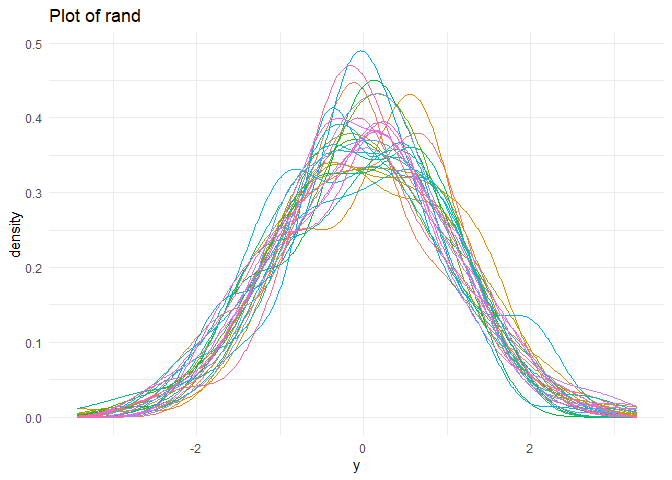
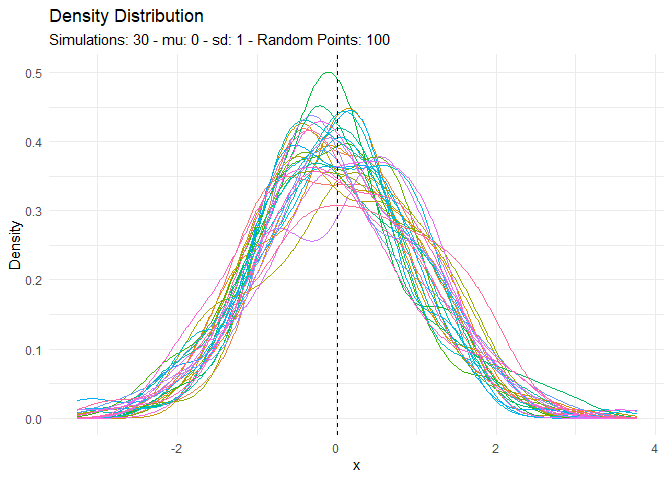
update pkgdown site

diff --git a/docs/reference/tidy_normal.html b/docs/reference/tidy_normal.html
@@ -1,0 +1,150 @@
+<!DOCTYPE html>
+<!-- Generated by pkgdown: do not edit by hand --><html lang="en"><head><meta http-equiv="Content-Type" content="text/html; charset=UTF-8"><meta charset="utf-8"><meta http-equiv="X-UA-Compatible" content="IE=edge"><meta name="viewport" content="width=device-width, initial-scale=1.0"><title>Tidy Randomly Generated Gaussian Tibble — tidy_normal • TidyDensity</title><!-- jquery --><script src="https://cdnjs.cloudflare.com/ajax/libs/jquery/3.4.1/jquery.min.js" integrity="sha256-CSXorXvZcTkaix6Yvo6HppcZGetbYMGWSFlBw8HfCJo=" crossorigin="anonymous"></script><!-- Bootstrap --><link href="https://cdnjs.cloudflare.com/ajax/libs/bootswatch/3.4.0/flatly/bootstrap.min.css" rel="stylesheet" crossorigin="anonymous"><script src="https://cdnjs.cloudflare.com/ajax/libs/twitter-bootstrap/3.4.1/js/bootstrap.min.js" integrity="sha256-nuL8/2cJ5NDSSwnKD8VqreErSWHtnEP9E7AySL+1ev4=" crossorigin="anonymous"></script><!-- bootstrap-toc --><link rel="stylesheet" href="../bootstrap-toc.css"><script src="../bootstrap-toc.js"></script><!-- Font Awesome icons --><link rel="stylesheet" href="https://cdnjs.cloudflare.com/ajax/libs/font-awesome/5.12.1/css/all.min.css" integrity="sha256-mmgLkCYLUQbXn0B1SRqzHar6dCnv9oZFPEC1g1cwlkk=" crossorigin="anonymous"><link rel="stylesheet" href="https://cdnjs.cloudflare.com/ajax/libs/font-awesome/5.12.1/css/v4-shims.min.css" integrity="sha256-wZjR52fzng1pJHwx4aV2AO3yyTOXrcDW7jBpJtTwVxw=" crossorigin="anonymous"><!-- clipboard.js --><script src="https://cdnjs.cloudflare.com/ajax/libs/clipboard.js/2.0.6/clipboard.min.js" integrity="sha256-inc5kl9MA1hkeYUt+EC3BhlIgyp/2jDIyBLS6k3UxPI=" crossorigin="anonymous"></script><!-- headroom.js --><script src="https://cdnjs.cloudflare.com/ajax/libs/headroom/0.11.0/headroom.min.js" integrity="sha256-AsUX4SJE1+yuDu5+mAVzJbuYNPHj/WroHuZ8Ir/CkE0=" crossorigin="anonymous"></script><script src="https://cdnjs.cloudflare.com/ajax/libs/headroom/0.11.0/jQuery.headroom.min.js" integrity="sha256-ZX/yNShbjqsohH1k95liqY9Gd8uOiE1S4vZc+9KQ1K4=" crossorigin="anonymous"></script><!-- pkgdown --><link href="../pkgdown.css" rel="stylesheet"><script src="../pkgdown.js"></script><meta property="og:title" content="Tidy Randomly Generated Gaussian Tibble — tidy_normal"><meta property="og:description" content="This function will generate n randong points from a gaussian
+distribution with a user provided, mean, standard deviation and number of
+random simulations to be produced. The function returns a tibble with the
+simulation number column the x column which corresponds to the n randomly
+generated points, the dnorm, pnorm and qnorm data points as well.
+The data is returned un-grouped."><!-- mathjax --><script src="https://cdnjs.cloudflare.com/ajax/libs/mathjax/2.7.5/MathJax.js" integrity="sha256-nvJJv9wWKEm88qvoQl9ekL2J+k/RWIsaSScxxlsrv8k=" crossorigin="anonymous"></script><script src="https://cdnjs.cloudflare.com/ajax/libs/mathjax/2.7.5/config/TeX-AMS-MML_HTMLorMML.js" integrity="sha256-84DKXVJXs0/F8OTMzX4UR909+jtl4G7SPypPavF+GfA=" crossorigin="anonymous"></script><!--[if lt IE 9]>
+<script src="https://oss.maxcdn.com/html5shiv/3.7.3/html5shiv.min.js"></script>
+<script src="https://oss.maxcdn.com/respond/1.4.2/respond.min.js"></script>
+<![endif]--></head><body data-spy="scroll" data-target="#toc">
+    
+
+    <div class="container template-reference-topic">
+      <header><div class="navbar navbar-default navbar-fixed-top" role="navigation">
+  <div class="container">
+    <div class="navbar-header">
+      <button type="button" class="navbar-toggle collapsed" data-toggle="collapse" data-target="#navbar" aria-expanded="false">
+        <span class="sr-only">Toggle navigation</span>
+        <span class="icon-bar"></span>
+        <span class="icon-bar"></span>
+        <span class="icon-bar"></span>
+      </button>
+      <span class="navbar-brand">
+        <a class="navbar-link" href="../index.html">TidyDensity</a>
+        <span class="version label label-default" data-toggle="tooltip" data-placement="bottom" title="">0.0.0.9000</span>
+      </span>
+    </div>
+
+    <div id="navbar" class="navbar-collapse collapse">
+      <ul class="nav navbar-nav"><li>
+  <a href="../index.html">
+    <span class="fa fa-home"></span>
+     
+  </a>
+</li>
+<li>
+  <a href="../articles/getting-started.html">Getting Started</a>
+</li>
+<li>
+  <a href="../reference/index.html">Function Reference</a>
+</li>
+<li>
+  <a href="../news/index.html">News</a>
+</li>
+      </ul><ul class="nav navbar-nav navbar-right"><li>
+  <a href="https://github.com/spsanderson/TidyDensity/" class="external-link">
+    <span class="fab fa-github fa-lg"></span>
+     
+  </a>
+</li>
+      </ul></div><!--/.nav-collapse -->
+  </div><!--/.container -->
+</div><!--/.navbar -->
+
+      
+
+      </header><div class="row">
+  <div class="col-md-9 contents">
+    <div class="page-header">
+    <h1>Tidy Randomly Generated Gaussian Tibble</h1>
+    <small class="dont-index">Source: <a href="https://github.com/spsanderson/TidyDensity/blob/HEAD/R/random-tidy-rnorm.R" class="external-link"><code>R/random-tidy-rnorm.R</code></a></small>
+    <div class="hidden name"><code>tidy_normal.Rd</code></div>
+    </div>
+
+    <div class="ref-description">
+    <p>This function will generate <code>n</code> randong points from a gaussian
+distribution with a user provided, mean, standard deviation and number of
+random simulations to be produced. The function returns a tibble with the
+simulation number column the x column which corresponds to the n randomly
+generated points, the <code>dnorm</code>, <code>pnorm</code> and <code>qnorm</code> data points as well.</p>
+<p>The data is returned un-grouped.</p>
+    </div>
+
+    <div id="ref-usage">
+    <div class="sourceCode"><pre class="sourceCode r"><code><span class="fu">tidy_normal</span><span class="op">(</span>.n <span class="op">=</span> <span class="fl">50</span>, .mean <span class="op">=</span> <span class="fl">0</span>, .sd <span class="op">=</span> <span class="fl">1</span>, .num_sims <span class="op">=</span> <span class="fl">1</span><span class="op">)</span></code></pre></div>
+    </div>
+
+    <div id="arguments">
+    <h2>Arguments</h2>
+    <dl><dt>.n</dt>
+<dd><p>The number of randomly generated points you want.</p></dd>
+<dt>.mean</dt>
+<dd><p>The mean of the randomly generated data.</p></dd>
+<dt>.sd</dt>
+<dd><p>The standard deviation of the randomly generated data.</p></dd>
+<dt>.num_sims</dt>
+<dd><p>The number of randomly generated simulations you want.</p></dd>
+</dl></div>
+    <div id="value">
+    <h2>Value</h2>
+    <p>A tibble of randomly generated.</p>
+    </div>
+    <div id="details">
+    <h2>Details</h2>
+    <p>This function uses the underlying <code><a href="https://rdrr.io/r/stats/Normal.html" class="external-link">stats::rnorm()</a></code>, <code><a href="https://rdrr.io/r/stats/Normal.html" class="external-link">stats::pnorm()</a></code>,
+and <code><a href="https://rdrr.io/r/stats/Normal.html" class="external-link">stats::qnorm()</a></code> functions to generate data from the given parameters.</p>
+    </div>
+    <div id="see-also">
+    <h2>See also</h2>
+    <div class="dont-index"><p><a href="https://data-flair.training/blogs/normal-distribution-in-r/" class="external-link">https://data-flair.training/blogs/normal-distribution-in-r/</a></p></div>
+    </div>
+    <div id="author">
+    <h2>Author</h2>
+    <p>Steven P. Sanderson II, MPH</p>
+    </div>
+
+    <div id="ref-examples">
+    <h2>Examples</h2>
+    <div class="sourceCode"><pre class="sourceCode r"><code><span class="r-in"><span class="fu">tidy_normal</span><span class="op">(</span><span class="op">)</span></span>
+<span class="r-out co"><span class="r-pr">#&gt;</span> <span style="color: #949494;"># A tibble: 50 x 6</span></span>
+<span class="r-out co"><span class="r-pr">#&gt;</span>    sim_number     x      y d_norm    p_norm   q_norm</span>
+<span class="r-out co"><span class="r-pr">#&gt;</span>    <span style="color: #949494; font-style: italic;">&lt;fct&gt;</span>      <span style="color: #949494; font-style: italic;">&lt;int&gt;</span>  <span style="color: #949494; font-style: italic;">&lt;dbl&gt;</span>  <span style="color: #949494; font-style: italic;">&lt;dbl&gt;</span>     <span style="color: #949494; font-style: italic;">&lt;dbl&gt;</span>    <span style="color: #949494; font-style: italic;">&lt;dbl&gt;</span></span>
+<span class="r-out co"><span class="r-pr">#&gt;</span> <span style="color: #BCBCBC;"> 1</span> 1              1  0.710 0.310  0   <span style="color: #949494;"> </span>     -<span style="color: #BB0000;">Inf</span>    </span>
+<span class="r-out co"><span class="r-pr">#&gt;</span> <span style="color: #BCBCBC;"> 2</span> 1              2  0.930 0.259  0   <span style="color: #949494;"> </span>       -<span style="color: #BB0000;">2.05</span> </span>
+<span class="r-out co"><span class="r-pr">#&gt;</span> <span style="color: #BCBCBC;"> 3</span> 1              3  1.97  0.057<span style="text-decoration: underline;">5</span> 0   <span style="color: #949494;"> </span>       -<span style="color: #BB0000;">1.74</span> </span>
+<span class="r-out co"><span class="r-pr">#&gt;</span> <span style="color: #BCBCBC;"> 4</span> 1              4  0.586 0.336  0   <span style="color: #949494;"> </span>       -<span style="color: #BB0000;">1.54</span> </span>
+<span class="r-out co"><span class="r-pr">#&gt;</span> <span style="color: #BCBCBC;"> 5</span> 1              5  0.326 0.378  0   <span style="color: #949494;"> </span>       -<span style="color: #BB0000;">1.39</span> </span>
+<span class="r-out co"><span class="r-pr">#&gt;</span> <span style="color: #BCBCBC;"> 6</span> 1              6 -<span style="color: #BB0000;">0.359</span> 0.374  0   <span style="color: #949494;"> </span>       -<span style="color: #BB0000;">1.27</span> </span>
+<span class="r-out co"><span class="r-pr">#&gt;</span> <span style="color: #BCBCBC;"> 7</span> 1              7  0.623 0.329  0   <span style="color: #949494;"> </span>       -<span style="color: #BB0000;">1.16</span> </span>
+<span class="r-out co"><span class="r-pr">#&gt;</span> <span style="color: #BCBCBC;"> 8</span> 1              8 -<span style="color: #BB0000;">1.71</span>  0.093<span style="text-decoration: underline;">0</span> 4.18<span style="color: #949494;">e</span><span style="color: #BB0000;">-284</span>   -<span style="color: #BB0000;">1.07</span> </span>
+<span class="r-out co"><span class="r-pr">#&gt;</span> <span style="color: #BCBCBC;"> 9</span> 1              9  1.24  0.184  1.11<span style="color: #949494;">e</span><span style="color: #BB0000;">-253</span>   -<span style="color: #BB0000;">0.981</span></span>
+<span class="r-out co"><span class="r-pr">#&gt;</span> <span style="color: #BCBCBC;">10</span> 1             10  0.645 0.324  5.45<span style="color: #949494;">e</span><span style="color: #BB0000;">-225</span>   -<span style="color: #BB0000;">0.901</span></span>
+<span class="r-out co"><span class="r-pr">#&gt;</span> <span style="color: #949494;"># ... with 40 more rows</span></span>
+<span class="r-in"></span>
+</code></pre></div>
+    </div>
+  </div>
+  <div class="col-md-3 hidden-xs hidden-sm" id="pkgdown-sidebar">
+    <nav id="toc" data-toggle="toc" class="sticky-top"><h2 data-toc-skip>Contents</h2>
+    </nav></div>
+</div>
+
+
+      <footer><div class="copyright">
+  <p></p><p>Developed by Steven Sanderson.</p>
+</div>
+
+<div class="pkgdown">
+  <p></p><p>Site built with <a href="https://pkgdown.r-lib.org/" class="external-link">pkgdown</a> 2.0.2.</p>
+</div>
+
+      </footer></div>
+
+  
+
+
+  
+
+  </body></html>
+

diff --git a/docs/index.html b/docs/index.html
@@ -98,32 +98,47 @@
 <div class="sourceCode" id="cb3"><pre class="downlit sourceCode r">
 <code class="sourceCode R"><span class="kw"><a href="https://rdrr.io/r/base/library.html" class="external-link">library</a></span><span class="op">(</span><span class="va"><a href="https://github.com/spsanderson/TidyDensity" class="external-link">TidyDensity</a></span><span class="op">)</span>
 
-<span class="va">rand</span> <span class="op">&lt;-</span> <span class="fu"><a href="reference/tidy_rnorm.html">tidy_rnorm</a></span><span class="op">(</span>.n <span class="op">=</span> <span class="fl">100</span>, .num_sims <span class="op">=</span> <span class="fl">30</span><span class="op">)</span>
-<span class="fu"><a href="https://rdrr.io/r/utils/head.html" class="external-link">head</a></span><span class="op">(</span><span class="va">rand</span><span class="op">)</span>
-<span class="co">#&gt; # A tibble: 6 x 3</span>
-<span class="co">#&gt;   sim_number     x      y</span>
-<span class="co">#&gt;   &lt;fct&gt;      &lt;int&gt;  &lt;dbl&gt;</span>
-<span class="co">#&gt; 1 1              1  0.185</span>
-<span class="co">#&gt; 2 1              2 -1.34 </span>
-<span class="co">#&gt; 3 1              3  1.62 </span>
-<span class="co">#&gt; 4 1              4 -0.600</span>
-<span class="co">#&gt; 5 1              5 -0.160</span>
-<span class="co">#&gt; 6 1              6 -1.31</span></code></pre></div>
+<span class="va">tn</span> <span class="op">&lt;-</span> <span class="fu"><a href="reference/tidy_normal.html">tidy_normal</a></span><span class="op">(</span>.n <span class="op">=</span> <span class="fl">100</span>, .num_sims <span class="op">=</span> <span class="fl">30</span><span class="op">)</span>
+<span class="fu"><a href="https://rdrr.io/r/utils/head.html" class="external-link">head</a></span><span class="op">(</span><span class="va">tn</span><span class="op">)</span>
+<span class="co">#&gt; # A tibble: 6 x 6</span>
+<span class="co">#&gt;   sim_number     x      y d_norm p_norm  q_norm</span>
+<span class="co">#&gt;   &lt;fct&gt;      &lt;int&gt;  &lt;dbl&gt;  &lt;dbl&gt;  &lt;dbl&gt;   &lt;dbl&gt;</span>
+<span class="co">#&gt; 1 1              1  0.438  0.362      0 -Inf   </span>
+<span class="co">#&gt; 2 1              2 -0.439  0.362      0   -2.32</span>
+<span class="co">#&gt; 3 1              3 -1.28   0.175      0   -2.05</span>
+<span class="co">#&gt; 4 1              4  1.66   0.101      0   -1.88</span>
+<span class="co">#&gt; 5 1              5  0.769  0.297      0   -1.75</span>
+<span class="co">#&gt; 6 1              6  0.219  0.389      0   -1.64</span></code></pre></div>
 <p>You’ll still need to render <code>README.Rmd</code> regularly, to keep <code>README.md</code> up-to-date. <code><a href="https://devtools.r-lib.org/reference/build_rmd.html" class="external-link">devtools::build_readme()</a></code> is handy for this. You could also use GitHub Actions to re-render <code>README.Rmd</code> every time you push. An example workflow can be found here: <a href="https://github.com/r-lib/actions/tree/v1/examples" class="external-link uri">https://github.com/r-lib/actions/tree/v1/examples</a>.</p>
 <p>You can also embed plots, for example:</p>
 <div class="sourceCode" id="cb4"><pre class="downlit sourceCode r">
 <code class="sourceCode R"><span class="kw"><a href="https://rdrr.io/r/base/library.html" class="external-link">library</a></span><span class="op">(</span><span class="va"><a href="https://dplyr.tidyverse.org" class="external-link">dplyr</a></span><span class="op">)</span>
 <span class="kw"><a href="https://rdrr.io/r/base/library.html" class="external-link">library</a></span><span class="op">(</span><span class="va"><a href="https://ggplot2.tidyverse.org" class="external-link">ggplot2</a></span><span class="op">)</span>
 
-<span class="va">rand</span> <span class="op"><a href="reference/pipe.html">%&gt;%</a></span>
-  <span class="fu"><a href="https://ggplot2.tidyverse.org/reference/ggplot.html" class="external-link">ggplot</a></span><span class="op">(</span>mapping <span class="op">=</span> <span class="fu"><a href="https://ggplot2.tidyverse.org/reference/aes.html" class="external-link">aes</a></span><span class="op">(</span>x <span class="op">=</span> <span class="va">y</span>, group <span class="op">=</span> <span class="va">sim_number</span>, color <span class="op">=</span> <span class="va">sim_number</span><span class="op">)</span><span class="op">)</span> <span class="op">+</span>
-  <span class="fu"><a href="https://ggplot2.tidyverse.org/reference/geom_density.html" class="external-link">geom_density</a></span><span class="op">(</span><span class="op">)</span> <span class="op">+</span>
-  <span class="fu"><a href="https://ggplot2.tidyverse.org/reference/ggtheme.html" class="external-link">theme_minimal</a></span><span class="op">(</span><span class="op">)</span> <span class="op">+</span>
+<span class="va">tn_mean</span> <span class="op">&lt;-</span> <span class="va">tn</span> <span class="op"><a href="reference/pipe.html">%&gt;%</a></span>
+  <span class="fu"><a href="https://dplyr.tidyverse.org/reference/summarise.html" class="external-link">summarise</a></span><span class="op">(</span>grp_mean <span class="op">=</span> <span class="fu"><a href="https://rdrr.io/r/base/mean.html" class="external-link">mean</a></span><span class="op">(</span><span class="va">y</span>, na.rm <span class="op">=</span> <span class="cn">TRUE</span><span class="op">)</span><span class="op">)</span>
+
+<span class="va">p1</span> <span class="op">&lt;-</span> <span class="va">tn</span> <span class="op"><a href="reference/pipe.html">%&gt;%</a></span>
+  <span class="fu"><a href="https://ggplot2.tidyverse.org/reference/ggplot.html" class="external-link">ggplot</a></span><span class="op">(</span><span class="fu"><a href="https://ggplot2.tidyverse.org/reference/aes.html" class="external-link">aes</a></span><span class="op">(</span>x <span class="op">=</span> <span class="va">y</span>, group <span class="op">=</span> <span class="va">sim_number</span>, color <span class="op">=</span> <span class="va">sim_number</span><span class="op">)</span><span class="op">)</span> <span class="op">+</span>
+  <span class="fu"><a href="https://ggplot2.tidyverse.org/reference/geom_density.html" class="external-link">geom_density</a></span><span class="op">(</span><span class="op">)</span> <span class="op">+</span> 
+  <span class="fu"><a href="https://ggplot2.tidyverse.org/reference/geom_abline.html" class="external-link">geom_vline</a></span><span class="op">(</span>data <span class="op">=</span> <span class="va">tn_mean</span>, <span class="fu"><a href="https://ggplot2.tidyverse.org/reference/aes.html" class="external-link">aes</a></span><span class="op">(</span>xintercept <span class="op">=</span> <span class="va">grp_mean</span><span class="op">)</span>,
+             linetype <span class="op">=</span><span class="st">"dashed"</span>, color <span class="op">=</span> <span class="st">"black"</span><span class="op">)</span> <span class="op">+</span>
+  <span class="fu"><a href="https://ggplot2.tidyverse.org/reference/ggtheme.html" class="external-link">theme_minimal</a></span><span class="op">(</span><span class="op">)</span> <span class="op">+</span> 
+  <span class="fu"><a href="https://ggplot2.tidyverse.org/reference/theme.html" class="external-link">theme</a></span><span class="op">(</span>legend.position <span class="op">=</span> <span class="st">"none"</span><span class="op">)</span> <span class="op">+</span> 
   <span class="fu"><a href="https://ggplot2.tidyverse.org/reference/labs.html" class="external-link">labs</a></span><span class="op">(</span>
-      title <span class="op">=</span> <span class="st">"Plot of rand"</span>,
-      color <span class="op">=</span> <span class="st">"Simulation"</span>
-  <span class="op">)</span> <span class="op">+</span>
-  <span class="fu"><a href="https://ggplot2.tidyverse.org/reference/theme.html" class="external-link">theme</a></span><span class="op">(</span>legend.position <span class="op">=</span> <span class="st">"none"</span><span class="op">)</span></code></pre></div>
+    title <span class="op">=</span> <span class="st">"Density Distribution"</span>, 
+    subtitle <span class="op">=</span> <span class="fu"><a href="https://rdrr.io/r/base/paste.html" class="external-link">paste0</a></span><span class="op">(</span>
+      <span class="st">"Simulations: "</span>, <span class="fu"><a href="https://rdrr.io/r/base/attributes.html" class="external-link">attributes</a></span><span class="op">(</span><span class="va">tn</span><span class="op">)</span><span class="op">$</span><span class="va">.num_sims</span>, 
+      <span class="st">" - mu: "</span>, <span class="fu"><a href="https://rdrr.io/r/base/attributes.html" class="external-link">attributes</a></span><span class="op">(</span><span class="va">tn</span><span class="op">)</span><span class="op">$</span><span class="va">.mean</span>, 
+      <span class="st">" - sd: "</span>, <span class="fu"><a href="https://rdrr.io/r/base/attributes.html" class="external-link">attributes</a></span><span class="op">(</span><span class="va">tn</span><span class="op">)</span><span class="op">$</span><span class="va">.sd</span>, 
+      <span class="st">" - Random Points: "</span>, <span class="fu"><a href="https://rdrr.io/r/base/attributes.html" class="external-link">attributes</a></span><span class="op">(</span><span class="va">tn</span><span class="op">)</span><span class="op">$</span><span class="va">.n</span>
+    <span class="op">)</span>,
+    color <span class="op">=</span> <span class="st">"Simulation"</span>,
+    x <span class="op">=</span> <span class="st">"x"</span>,
+    y <span class="op">=</span> <span class="st">"Density"</span>
+  <span class="op">)</span>
+
+<span class="va">p1</span></code></pre></div>
 <p><img src="reference/figures/README-plot_density-1.png" width="100%"></p>
 <p>In that case, don’t forget to commit and push the resulting figure files, so they display on GitHub and CRAN.</p>
 </div>

diff --git a/docs/news/index.html b/docs/news/index.html
@@ -58,7 +58,7 @@
 
     <div class="section level2">
 <h2 class="page-header" data-toc-text="0.0.0.9000" id="tidydensity-0009000">TidyDensity 0.0.0.9000<a class="anchor" aria-label="anchor" href="#tidydensity-0009000"></a></h2>
-<ol style="list-style-type: decimal"><li>Fix <a href="https://github.com/spsanderson/TidyDensity/issues/1" class="external-link">#1</a> - Add function <code><a href="../reference/tidy_rnorm.html">tidy_rnorm()</a></code>
+<ol style="list-style-type: decimal"><li>Fix <a href="https://github.com/spsanderson/TidyDensity/issues/1" class="external-link">#1</a> - Add function <code>tidy_rnorm()</code>
 </li>
 </ol><ul><li>Added a <code>NEWS.md</code> file to track changes to the package.</li>
 </ul></div>

diff --git a/docs/reference/index.html b/docs/reference/index.html
@@ -60,7 +60,7 @@
           <p class="section-desc"></p>
         </th>
       </tr></tbody><tbody><tr><td>
-          <p><code><a href="tidy_rnorm.html">tidy_rnorm()</a></code> </p>
+          <p><code><a href="tidy_normal.html">tidy_normal()</a></code> </p>
         </td>
         <td><p>Tidy Randomly Generated Gaussian Tibble</p></td>
       </tr></tbody></table></div>

diff --git a/README.md b/README.md
@@ -39,17 +39,17 @@ This is a basic example which shows you how to solve a common problem:
 ``` r
 library(TidyDensity)
 
-rand <- tidy_rnorm(.n = 100, .num_sims = 30)
-head(rand)
-#> # A tibble: 6 x 3
-#>   sim_number     x      y
-#>   <fct>      <int>  <dbl>
-#> 1 1              1  0.185
-#> 2 1              2 -1.34 
-#> 3 1              3  1.62 
-#> 4 1              4 -0.600
-#> 5 1              5 -0.160
-#> 6 1              6 -1.31
+tn <- tidy_normal(.n = 100, .num_sims = 30)
+head(tn)
+#> # A tibble: 6 x 6
+#>   sim_number     x      y d_norm p_norm  q_norm
+#>   <fct>      <int>  <dbl>  <dbl>  <dbl>   <dbl>
+#> 1 1              1  0.438  0.362      0 -Inf   
+#> 2 1              2 -0.439  0.362      0   -2.32
+#> 3 1              3 -1.28   0.175      0   -2.05
+#> 4 1              4  1.66   0.101      0   -1.88
+#> 5 1              5  0.769  0.297      0   -1.75
+#> 6 1              6  0.219  0.389      0   -1.64
 ```
 
 You’ll still need to render `README.Rmd` regularly, to keep `README.md`
@@ -64,15 +64,30 @@ You can also embed plots, for example:
 library(dplyr)
 library(ggplot2)
 
-rand %>%
-  ggplot(mapping = aes(x = y, group = sim_number, color = sim_number)) +
-  geom_density() +
-  theme_minimal() +
+tn_mean <- tn %>%
+  summarise(grp_mean = mean(y, na.rm = TRUE))
+
+p1 <- tn %>%
+  ggplot(aes(x = y, group = sim_number, color = sim_number)) +
+  geom_density() + 
+  geom_vline(data = tn_mean, aes(xintercept = grp_mean),
+             linetype ="dashed", color = "black") +
+  theme_minimal() + 
+  theme(legend.position = "none") + 
   labs(
-      title = "Plot of rand",
-      color = "Simulation"
-  ) +
-  theme(legend.position = "none")
+    title = "Density Distribution", 
+    subtitle = paste0(
+      "Simulations: ", attributes(tn)$.num_sims, 
+      " - mu: ", attributes(tn)$.mean, 
+      " - sd: ", attributes(tn)$.sd, 
+      " - Random Points: ", attributes(tn)$.n
+    ),
+    color = "Simulation",
+    x = "x",
+    y = "Density"
+  )
+
+p1
 ```
 
 <img src="man/figures/README-plot_density-1.png" width="100%" />
